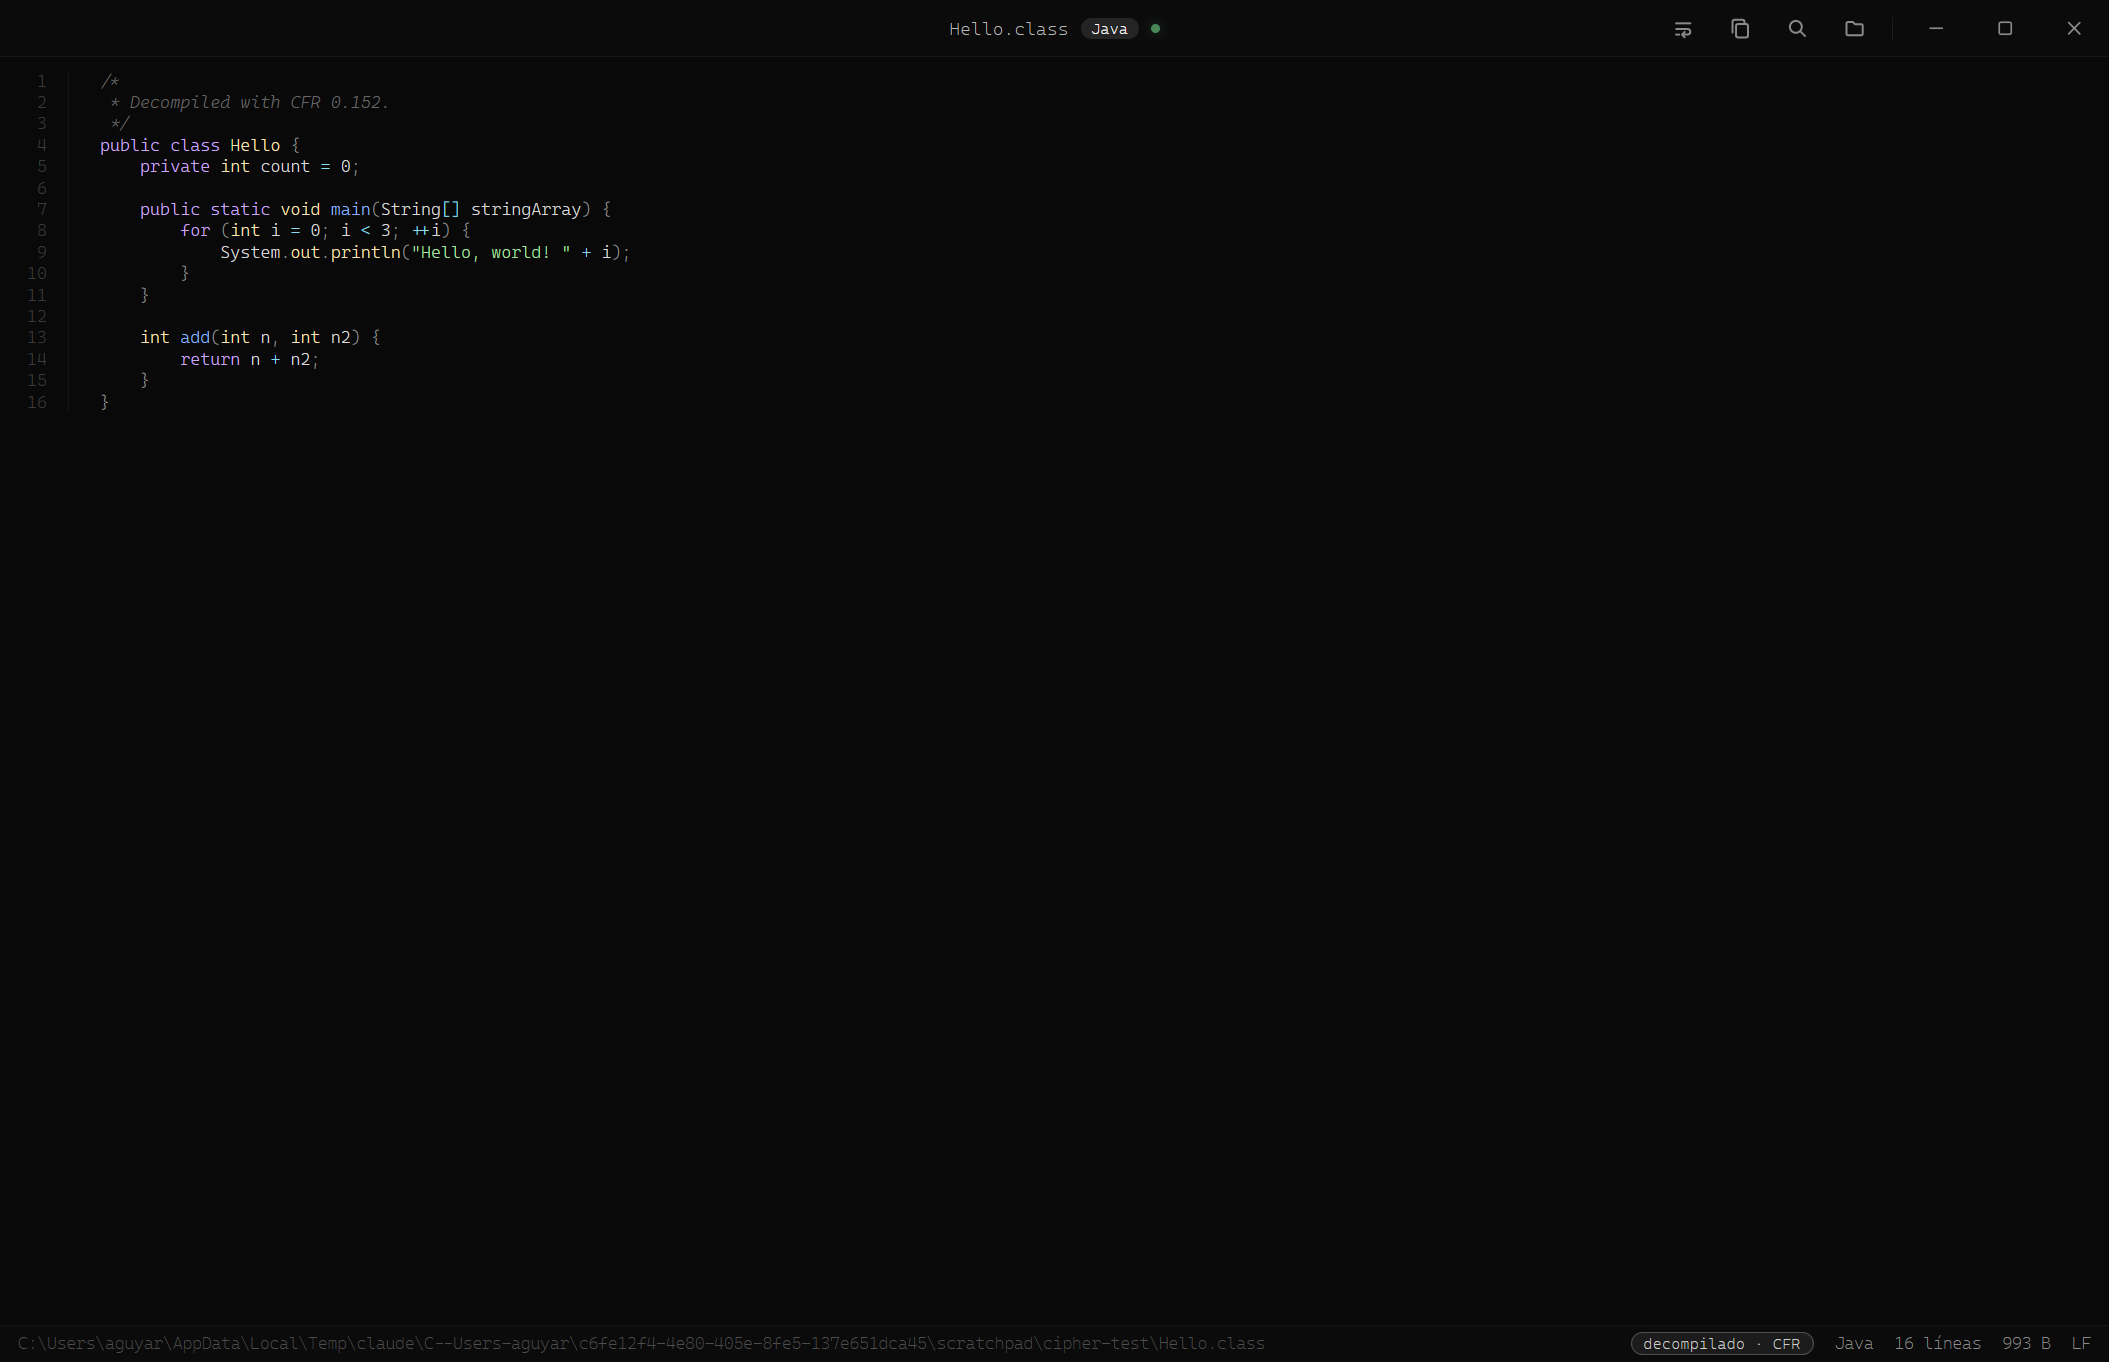
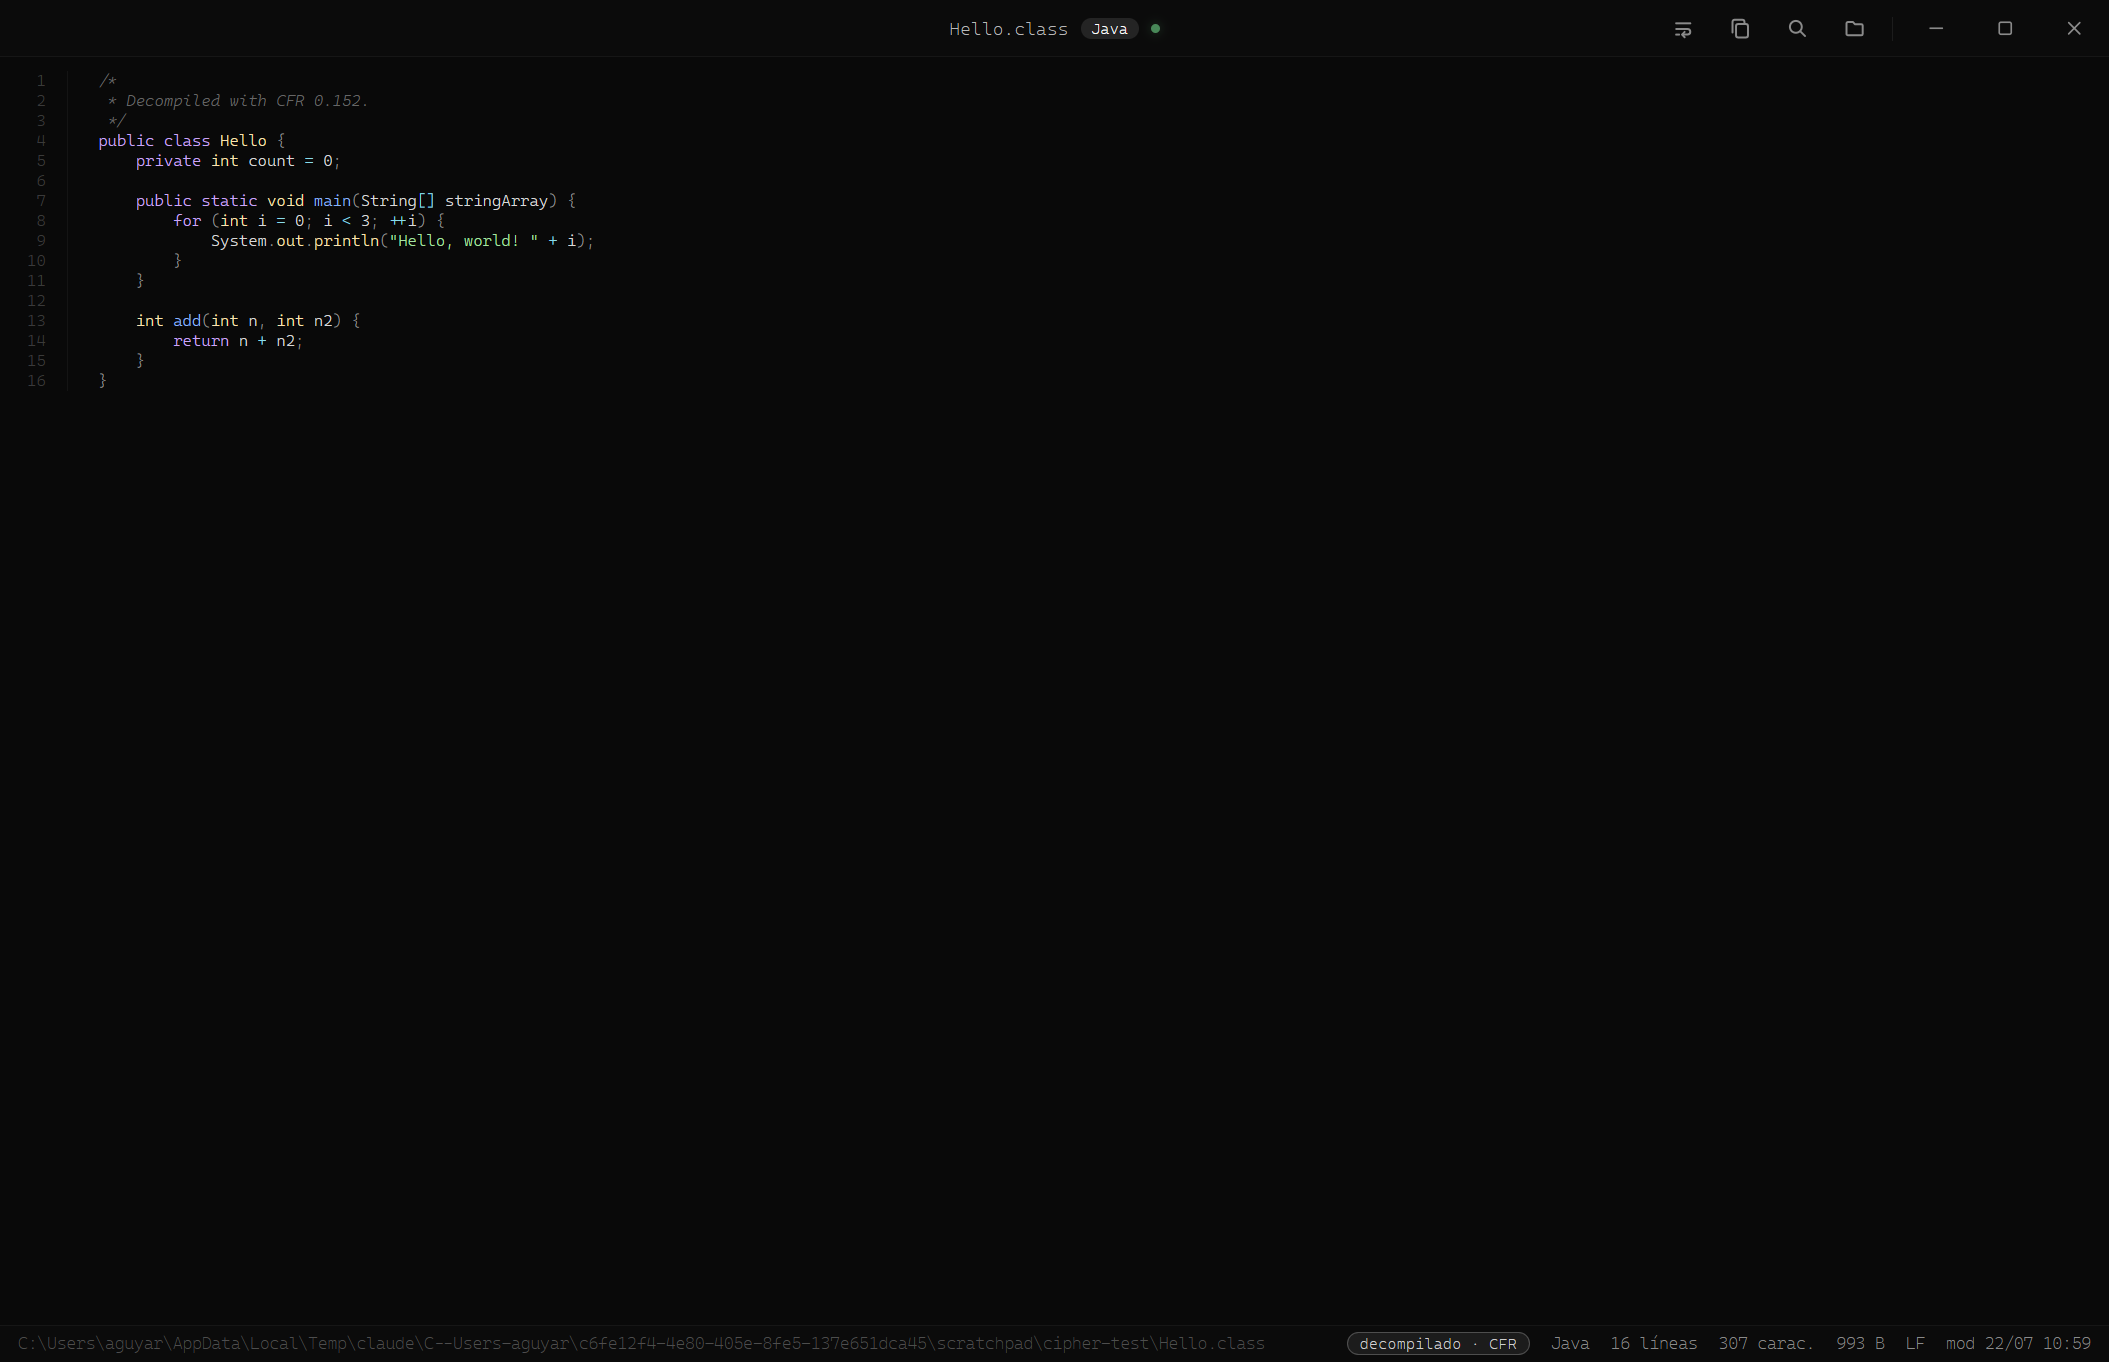
Barra de estado con mas datos: caracteres, modificado, % scroll, zoom y seleccion
Nuevos items a la derecha: contador de seleccion vivo (sel N), indicador de
zoom cuando no esta al 100%, cantidad de caracteres (runas, formato es-AR),
fecha de modificacion compacta (hoy HH:MM / dd/mm HH:MM) y porcentaje de
lectura que sigue al scroll. El backend suma "chars" al JSON de /render y
/render-text; mtime ya viajaba.

diff --git a/ui/app.js b/ui/app.js
@@ -73,11 +73,21 @@ function paint(j, opts) {
 }
 
 // ---- barra de estado ----------------------------------------------------
+const nf = new Intl.NumberFormat('es-AR');
 function humanSize(n) {
   if (n == null) return '';
   if (n < 1024) return n + ' B';
   if (n < 1024 * 1024) return (n / 1024).toFixed(1) + ' KB';
   return (n / 1024 / 1024).toFixed(2) + ' MB';
+}
+// fecha de modificación compacta: "hoy 13:24", "22/07 13:24" o "22/07/25 13:24" si es de otro año
+function fmtWhen(ms) {
+  if (!ms) return '';
+  const d = new Date(ms), now = new Date(), p = (x) => String(x).padStart(2, '0');
+  const hm = p(d.getHours()) + ':' + p(d.getMinutes());
+  if (d.toDateString() === now.toDateString()) return 'hoy ' + hm;
+  const dm = p(d.getDate()) + '/' + p(d.getMonth() + 1);
+  return (d.getFullYear() === now.getFullYear() ? dm : dm + '/' + String(d.getFullYear()).slice(-2)) + ' ' + hm;
 }
 function fillStatus(j) {
   $('stPath').textContent = j.path || j.name || '';
@@ -89,8 +99,11 @@ function fillStatus(j) {
   else { tr.textContent = ''; tr.classList.remove('on'); }
   $('stLang').textContent = j.binary ? 'binario' : (j.lang || '');
   $('stLines').textContent = j.binary ? '' : ((j.lines || 0) + (j.lines === 1 ? ' línea' : ' líneas'));
+  $('stChars').textContent = (j.binary || j.chars == null) ? '' : nf.format(j.chars) + ' carac.';
   $('stSize').textContent = humanSize(j.binary ? j.bytes : (j.size != null ? j.size : j.bytes));
   $('stEol').textContent = j.binary ? '' : (j.crlf ? 'CRLF' : 'LF');
+  $('stMod').textContent = j.mtime ? 'mod ' + fmtWhen(j.mtime) : '';
+  $('stSel').textContent = '';
 }
 
 // ---- aviso central (binario / vacío) ------------------------------------
@@ -160,6 +173,9 @@ function updateProgress() {
   const denom = Math.max(1, view.scrollHeight - view.clientHeight);
   const p = Math.min(1, Math.max(0, view.scrollTop / denom));
   $('progressBar').style.width = (p * 100) + '%';
+  // % de lectura en la barra de estado (sólo si hay documento y da para scrollear)
+  const scrollable = view.scrollHeight > view.clientHeight + 2;
+  $('stPos').textContent = (body.classList.contains('has-doc') && scrollable) ? Math.round(p * 100) + '%' : '';
 }
 view.addEventListener('scroll', updateProgress, { passive: true });
 
@@ -258,6 +274,8 @@ let wrap = window.__CIPHER_WRAP__ === true;
 function applyScale() {
   rscale = Math.min(2.2, Math.max(0.6, rscale));
   document.documentElement.style.setProperty('--rscale', rscale.toFixed(3));
+  // indicador de zoom en la barra de estado (sólo cuando no está al 100%)
+  $('stZoom').textContent = Math.abs(rscale - 1) < 0.005 ? '' : Math.round(rscale * 100) + '%';
 }
 function applyWrap() {
   body.classList.toggle('wrap', wrap);
@@ -374,6 +392,13 @@ function toast(msg, ok) {
   clearTimeout(toastTimer); toastTimer = setTimeout(() => t.classList.remove('show'), 2000);
 }
 window.addEventListener('contextmenu', (e) => { if (!typing() && !window.getSelection().toString()) e.preventDefault(); });
+// contador de selección vivo en la barra de estado (sólo selecciones dentro del código)
+document.addEventListener('selectionchange', () => {
+  const s = window.getSelection();
+  let n = 0;
+  if (s && s.rangeCount && !s.isCollapsed && code.contains(s.anchorNode)) n = s.toString().length;
+  $('stSel').textContent = n > 0 ? 'sel ' + nf.format(n) : '';
+});
 window.addEventListener('resize', () => {
   body.classList.toggle('maximized', !isFs && window.innerWidth >= screen.availWidth - 6);
   updateProgress();

diff --git a/ui/index.html b/ui/index.html
@@ -119,12 +119,17 @@
   <footer id="statusbar">
     <div class="st-left"><span id="stPath"></span></div>
     <div class="st-right">
+      <span id="stSel" class="st-item st-live"></span>
+      <span id="stZoom" class="st-item st-live"></span>
       <span id="stDecomp" class="st-pill"></span>
       <span id="stTrunc" class="st-pill st-warn"></span>
       <span id="stLang" class="st-item"></span>
       <span id="stLines" class="st-item"></span>
+      <span id="stChars" class="st-item"></span>
       <span id="stSize" class="st-item"></span>
       <span id="stEol" class="st-item"></span>
+      <span id="stMod" class="st-item"></span>
+      <span id="stPos" class="st-item st-pos"></span>
     </div>
   </footer>
 

diff --git a/ui/style.css b/ui/style.css
@@ -187,6 +187,8 @@ body.wrap .chroma .cl{ flex:1 1 auto; min-width:0;
 .st-right{ display:flex; align-items:center; gap:14px; flex:none; }
 .st-item{ color:var(--fg-dim); white-space:nowrap; font-variant-numeric:tabular-nums; }
 .st-item:empty{ display:none; }
+.st-live{ color:var(--fg); }          /* datos vivos (selección, zoom) un paso más brillantes */
+.st-pos{ min-width:32px; text-align:right; }
 .st-pill{ display:none; padding:1px 8px; border-radius:10px; font-size:10px; letter-spacing:.3px; white-space:nowrap; }
 #stDecomp.on{ display:inline; color:var(--fg); background:rgba(255,255,255,.07); border:1px solid rgba(255,255,255,.22); }
 #stTrunc.on{ display:inline; color:var(--warn); background:rgba(255,255,255,.07); border:1px solid rgba(255,255,255,.22); }

diff --git a/main.go b/main.go
@@ -833,6 +833,7 @@ func startServer(initialPath string) string {
 			"lang":       res.Lang,
 			"lines":      res.Lines,
 			"bytes":      res.Bytes,
+			"chars":      res.Chars,
 			"decompiled": res.Decompiled,
 			"tool":       res.Tool,
 			"binary":     res.Binary,
@@ -870,7 +871,7 @@ func startServer(initialPath string) string {
 		}
 		writeJSON(wr, map[string]any{
 			"ok": true, "html": res.HTML, "lang": res.Lang, "lines": res.Lines,
-			"bytes": res.Bytes, "binary": res.Binary, "truncated": res.Truncated,
+			"bytes": res.Bytes, "chars": res.Chars, "binary": res.Binary, "truncated": res.Truncated,
 			"crlf": res.CRLF, "path": "", "dir": "", "name": filepath.Base(name),
 		})
 	})

diff --git a/render.go b/render.go
@@ -15,6 +15,7 @@ import (
 	"sort"
 	"strings"
 	"sync"
+	"unicode/utf8"
 
 	"github.com/alecthomas/chroma/v2"
 	chromahtml "github.com/alecthomas/chroma/v2/formatters/html"
@@ -97,6 +98,7 @@ type RenderResult struct {
 	Lang       string `json:"lang"`       // nombre legible del lenguaje (p.ej. "Go", "Java")
 	Lines      int    `json:"lines"`      // cantidad de líneas
 	Bytes      int    `json:"bytes"`      // tamaño del texto mostrado
+	Chars      int    `json:"chars"`      // cantidad de caracteres (runas) del texto mostrado
 	Decompiled bool   `json:"decompiled"` // true si el contenido salió de un decompilador
 	Tool       string `json:"tool"`       // herramienta de decompilación usada (CFR, javap, …)
 	Binary     bool   `json:"binary"`     // true si el archivo es binario y no se pudo mostrar
@@ -208,6 +210,7 @@ func highlight(code, langHint string) RenderResult {
 		Lang:  langName,
 		Lines: lines,
 		Bytes: len(code),
+		Chars: utf8.RuneCountInString(code),
 	}
 }
 